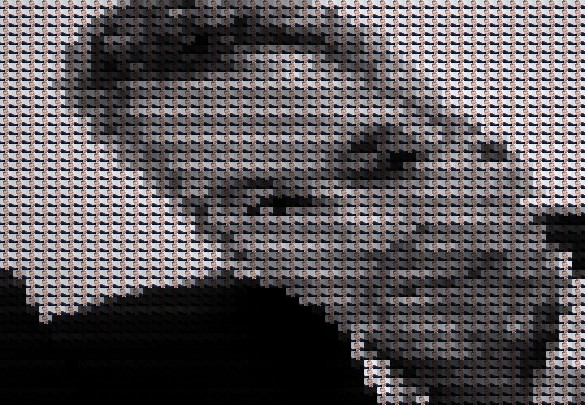
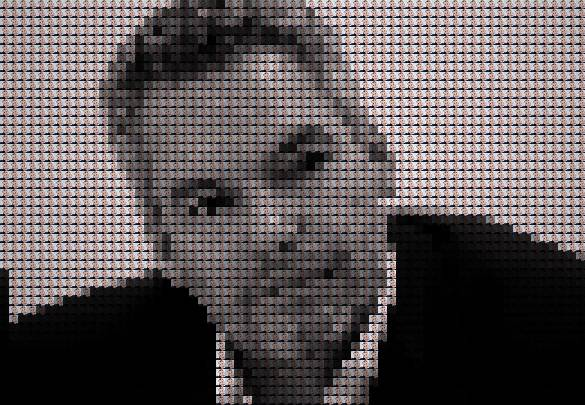
Fix single collage

diff --git a/collage.c b/collage.c
@@ -35,9 +35,25 @@ void print_malloc(size_t size, bool print_always)
     }
 }
 
+void print_malloc_error(size_t size)
+{
+    fprintf(stderr, "ERR: malloc failed with size %lu\n", size);
+}
+
 void set_debug(bool debug)
 {
     DEBUG = debug;
+}
+
+bool check_image_dimensions(image_t image) 
+{
+    return (image.width > 0 && image.height > 0 && image.channels > 0 &&
+        image.width <= MAX_DIMENSION && image.height <= MAX_DIMENSION && image.channels <= MAX_CHANNELS);
+}
+
+void print_image_dimensions(char* name, int width, int height, int channels)
+{
+    printf("%s: %dx%dx%d\n", name, width, height, channels);
 }
 
 float get_point_luminance(uint8_t r, uint8_t g, uint8_t b)
@@ -290,7 +306,7 @@ bool paste_image_at_pos(
     }
     else if ((x + width2 > width1) || (y + height2 > height1))
     {
-        if (DEBUG) fprintf(stderr, "ERR: Paste coordinates out of bounds\n");
+        if (DEBUG) fprintf(stderr, "ERR: Paste coordinates out of bounds %d,%d\n", x, y);
         return false;
     }
 
@@ -325,62 +341,58 @@ bool paste_image_at_pos(
 }
 
 uint8_t* collage_from_single_image(
-    uint8_t *image, int width, int height, int channels,
-    int *collage_width, int *collage_height, int mode) 
+    uint8_t *base_image, int base_width, int base_height, int base_channels,
+    uint8_t *paste_image, int paste_width, int paste_height, int paste_channels,
+    int *collage_width, int *collage_height, int *collage_channels, 
+    int mode) 
 {
-    int image_size = width * height * channels;
-    *collage_width = width * width;
-    *collage_height = height * height;
+    image_t base_image_s, paste_image_s;
+    base_image_s.width = base_width;
+    base_image_s.height = base_height;
+    base_image_s.channels = base_channels;
+    paste_image_s.width = paste_width;
+    paste_image_s.height = paste_height;
+    paste_image_s.channels = paste_channels;
+    if (!check_image_dimensions(base_image_s) ||
+        !check_image_dimensions(paste_image_s) ||
+        !(mode == 0 || mode == 1))
+    {
+        fprintf(stderr, "ERR: invalid input image dimensions or wrong function call\n");
+        return NULL;
+    }
 
-    float aspect_ratio = (float)width / (float) height;
-    float width_factor = 1, height_factor = 1;
-
-    if (aspect_ratio >= 1) 
-        width_factor = 1/aspect_ratio;
-    else
-        height_factor = aspect_ratio;
-
-    if (DEBUG) printf("ratio: %f, width_factor=%f, height_factor=%f\n", aspect_ratio, width_factor, height_factor);
-
-    *collage_width = (int) ((*collage_width) * width_factor);
-    *collage_height = (int) ((*collage_height) * height_factor);
-
-    if (DEBUG) printf("collage: width=%d, height=%d\n", *collage_width, *collage_height);
+    *collage_width = (base_width * paste_width);
+    *collage_height = (base_height * paste_height);
+    *collage_channels = paste_channels;
     
-    size_t collage_size = (*collage_width) * (*collage_height) * channels;
+    size_t collage_size = (*collage_width) * (*collage_height) * (*collage_channels);
     print_malloc(collage_size, false);
     uint8_t* collage = malloc(collage_size);
-
-    uint8_t* img_i = image;
-    img_i += (int) (channels * (width * (1 - width_factor) + height * (1 - height_factor) * width) / 2);
-
-    for (int i=0; i<height*height_factor; i++) 
+    if (collage == NULL)
     {
-        for (int j=0; j<width*width_factor; j++) 
+        print_malloc_error(collage_size);
+        return NULL;
+    }
+
+    for (int x=0; x<base_width; x++) 
+    {
+        for (int y=0; y<base_height; y++)
         {
+            uint8_t* base_pixel = base_image + (y * base_width + x) * base_channels;
             float Y;
             switch (mode)
             {
                 default: 
-                case 0: Y = get_point_luminance(*img_i, *(img_i+1), *(img_i+2)); break;
-                case 1: Y = fabs(sin(i*M_PI / height) * sin(j*M_PI / height)); break;
+                case 0: Y = get_point_luminance(*base_pixel, *(base_pixel+1), *(base_pixel+2)); break;
+                case 1: Y = fabs(sinf(x*M_PI / base_width) * sinf(y*M_PI / base_height)); break;
             }
 
-            bool paste_success = paste_image_at_pos( 
-                collage, *collage_width, *collage_height, channels,
-                image, width, height, channels, 
-                j*width, i*height, Y
+            paste_image_at_pos( 
+                collage, *collage_width, *collage_height, *collage_channels,
+                paste_image, paste_width, paste_height, paste_channels, 
+                x*paste_width, y*paste_height, Y
             );
-
-            img_i += channels;
-
-            if (!paste_success || (img_i >= image + image_size)) 
-            {
-                return collage;
-            }
         }
-
-        img_i += (int)(height_factor * channels * (width * (1 - width_factor)));
     }
     
     return collage;
@@ -495,8 +507,8 @@ uint8_t* collage_from_multiple_images(
                 get_point_luminance(*(down_right_pix), *(down_right_pix+1), *(down_right_pix+2)),
             };
 
-
-            int not_allowed_radius = 3,
+            // TODO: calculate radius according to amount of photos
+            int not_allowed_radius = 2,
                 not_allowed[not_allowed_radius * not_allowed_radius],
                 not_allowed_count = 0;
 

diff --git a/collage-cli.c b/collage-cli.c
@@ -13,15 +13,11 @@
 
 /* Configuration */
 
-static const int SHRINK_FACTOR = 10;    // for fun and single
 static const int FOTO_LIMIT = 600;      // for multi
+static const int FILENAME_LENGTH = 100;
+static const int DEFAULT_JPG_QUALITY = 70;
 static bool VERBOSE_OUTPUT = false;     // can be set with -v
 static bool DEBUG_OUTPUT = false;       // can be set with -d
-
-/* Constants */
-
-static const int FILENAME_LENGTH = 100;
-
 
 /* Miscellaneous methods */
 
@@ -81,7 +77,6 @@ char** get_all_filenames(char* folder, int* file_count)
     return filenames;
 }
 
-
 /* Implementation */
 
 void shrink_collage(char* input_image, char* output_image)
@@ -122,7 +117,7 @@ void shrink_collage(char* input_image, char* output_image)
     else 
     {
         if (VERBOSE_OUTPUT) printf("Shrunk to size %dx%d\n", shrink_width, shrink_height);
-        stbi_write_jpg(output_image, shrink_width, shrink_height, 3, shrunk_image, 90);
+        stbi_write_jpg(output_image, shrink_width, shrink_height, 3, shrunk_image, DEFAULT_JPG_QUALITY);
     }
 
     stbi_image_free(image);
@@ -131,7 +126,8 @@ void shrink_collage(char* input_image, char* output_image)
 
 void single_collage(char* input_image, char* output_image, int mode)
 {
-    int shrink_factor = SHRINK_FACTOR;
+    float shrink_factor = 10;
+
     int width, height, bpp;
     uint8_t* image = stbi_load(input_image, &width, &height, &bpp, 3);
 
@@ -141,24 +137,31 @@ void single_collage(char* input_image, char* output_image, int mode)
         return;
     }
     
-    if (VERBOSE_OUTPUT) printf("image: width=%d, height=%d, channels=%d\n", width, height, bpp);
+    if (VERBOSE_OUTPUT) print_image_dimensions("image", width, height, bpp);
 
     int shrunk_width, shrunk_height;
     uint8_t* shrunk_image = shrink_image_factor(
         image, width, height, &shrunk_width, &shrunk_height, shrink_factor
     );
+    int squared_size = fmin(shrunk_width, shrunk_height);
+    uint8_t* squared_image = shrink_image_size(
+        image, width, height, bpp, squared_size, squared_size
+    );
 
     stbi_image_free(image);
 
-    if (VERBOSE_OUTPUT) printf("shrunk image: width=%d, height=%d\n", shrunk_width, shrunk_height);
+    if (VERBOSE_OUTPUT) print_image_dimensions("shrunk image", shrunk_width, shrunk_height, bpp);
 
-    int collage_width, collage_height;
+    int collage_width, collage_height, collage_channels;
     uint8_t* collage = collage_from_single_image(
-        shrunk_image, shrunk_width, shrunk_height, 3,
-        &collage_width, &collage_height, mode
+        shrunk_image, shrunk_width, shrunk_height, bpp,
+        squared_image, squared_size, squared_size, bpp,
+        &collage_width, &collage_height, &collage_channels, mode
     );
+
+    if (VERBOSE_OUTPUT) print_image_dimensions("collage single", collage_width, collage_height, collage_channels);
     
-    stbi_write_jpg(output_image, collage_width, collage_height, 3, collage, 60);
+    stbi_write_jpg(output_image, collage_width, collage_height, collage_channels, collage, DEFAULT_JPG_QUALITY);
 
     stbi_image_free(shrunk_image);
     stbi_image_free(collage);
@@ -237,20 +240,19 @@ void multi_collage(
             border_top, border_right, border_bottom, border_left);
     }
 
-
     /*  Load creator image and shrink  */
     if (VERBOSE_OUTPUT) printf("Load main image\n");
 
     int creator_width_original, creator_height_original, creator_bpp;
     uint8_t* creator_image = stbi_load(input_image_path, &creator_width_original, &creator_height_original, &creator_bpp, 3);
 
-    if (VERBOSE_OUTPUT) printf("Main image loaded with %dx%dx%d\n", creator_width_original, creator_height_original, creator_bpp);
-
     if (creator_image == NULL)
     {
         fprintf(stderr, "ERR: input_image wrong\n");
         return;
     }
+
+    if (VERBOSE_OUTPUT) print_image_dimensions("Main image loaded", creator_width_original, creator_height_original, creator_bpp);
     
     int creator_width = fotos_horiz * 2,
         creator_height = fotos_vert * 2;
@@ -259,10 +261,9 @@ void multi_collage(
         creator_width, creator_height
     );
 
-    if (VERBOSE_OUTPUT) printf("Main image %s with dim %dx%d px\n", input_image_path, creator_width, creator_height);
+    if (VERBOSE_OUTPUT) print_image_dimensions("Main image shrunk", creator_width, creator_height, creator_bpp);
     if (DEBUG_OUTPUT) stbi_write_jpg("main-image.jpg", creator_width, creator_height, 3, creator_shrunk, jpg_quality);
     stbi_image_free(creator_image);
-
 
     /*  Load fotos  */
 
@@ -416,9 +417,12 @@ int main(int argc, char* argv[])
         if (argc > 7 + no_options && strcmp(argv[7 + no_options], "false") == 0)
             mode_contour = false;
 
+        // TODO: calculate size according to collage dimensions
+        int foto_size = 118; // default = 118 (good for print 300dpi)
+
         multi_collage(
             input_image, output_image, image_folder,
-            collage_size_id, 0, 118,
+            collage_size_id, 0, foto_size,
             jpg_quality, mode_contour
         );
     }

diff --git a/collage.h b/collage.h
@@ -22,22 +22,29 @@ static const float LUMINANCE_GREEN = 0.7152f;
 static const float LUMINANCE_BLUE = 0.0722f;
 static const float LUMINANCE_POWER_CURVE = 2.2f;
 
+static const int MAX_DIMENSION = 10000;
+static const int MAX_CHANNELS = 3;
 
 /* Global variables */
 
 extern unsigned long TOTAL_MALLOC;
 
-
 /* Typedefs */
 
+typedef struct 
+{
+    uint8_t* image;
+    int width, height, channels;
+} image_t;
 struct image_structure_t { float y1, y2, y3, y4; };
-
 
 /* Helper methods */
 
 void set_debug(bool debug);
 void print_malloc(size_t size, bool print_always);
-
+void print_malloc_error(size_t size);
+bool check_image_dimensions(image_t image);
+void print_image_dimensions(char* name, int width, int height, int channels);
 
 /* Baisc pixel manipulation */
 
@@ -60,7 +67,6 @@ int match_image_by_structure(struct image_structure_t S, struct image_structure_
 int match_any_image_above(float Y, float* images_luminance, int count,
                           int* not_allowed, int not_allowed_size);
 
-
 /* Whole image manipulation */
 
 uint8_t* shrink_image_factor(uint8_t* image, int width, int height, int* shrunk_width, int* shrunk_height, int factor);
@@ -71,8 +77,11 @@ bool paste_image_at_pos(uint8_t *image_to, int width1, int height1, int channels
                         uint8_t *image_from, int width2, int height2, int channels2, 
                         int x, int y, float tone);
 
-uint8_t* collage_from_single_image(uint8_t *image, int width, int height, int channels,
-                                   int *collage_width, int *collage_height, int mode);
+uint8_t* collage_from_single_image(
+    uint8_t *base_image, int base_width, int base_height, int base_channels,
+    uint8_t *paste_image, int paste_width, int paste_height, int paste_channels,
+    int *collage_width, int *collage_height, int *collage_channels,
+    int mode);
 uint8_t* collage_from_multiple_images(
     uint8_t *creator_image, int creator_width, int creator_height, int channels,
     uint8_t **image_array, int image_width, int image_height, int image_count,

diff --git a/readme.md b/readme.md
@@ -1,10 +1,13 @@
 # Collage
 Tool to create a collage from a single or mutliple images using stb_image library. For quality results of `multi` collages use more than 100-200 photos.
 
+## Limitations
+ - Works only with rgb-images of 3 channels
+
 ## Examples
 ||||
 |-|-|-|
-|![Base image](photos/nehammer.jpg "Karl Nehammer")Base Image|![single collage](photos/nehammer-collage-single.jpg "Karl Nehammer")*single* collage|![multi collage](photos/nehammer-collage-single.jpg "Karl Nehammer")*multi* collage|
+|![Base image](photos/nehammer.jpg "Karl Nehammer")Base Image|![single collage](photos/nehammer-collage-single.jpg "Karl Nehammer")*single* collage|![multi collage](photos/nehammer-collage-multi.jpg "Karl Nehammer")*multi* collage|
 
 ## Usage
 |Method|Notes|
@@ -37,3 +40,5 @@ options:
 
 ## TODO 
  - Calculate Contours (see https://www.sciencedirect.com/science/article/abs/pii/0734189X85900167)
+ - Exception handling: check malloc for NULL, input validation, etc.
+ - Support more than 3 channels
